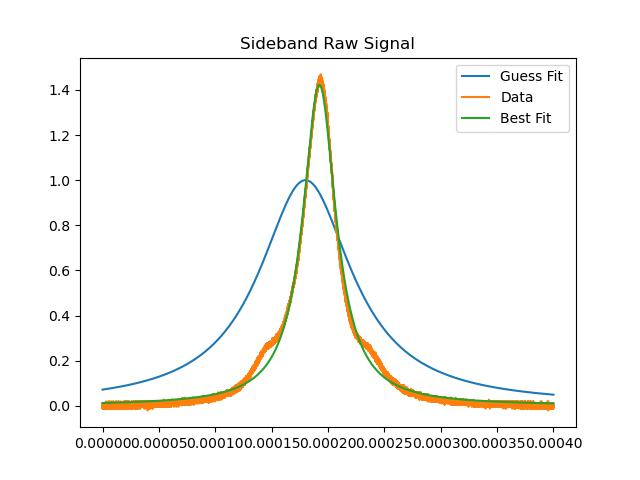
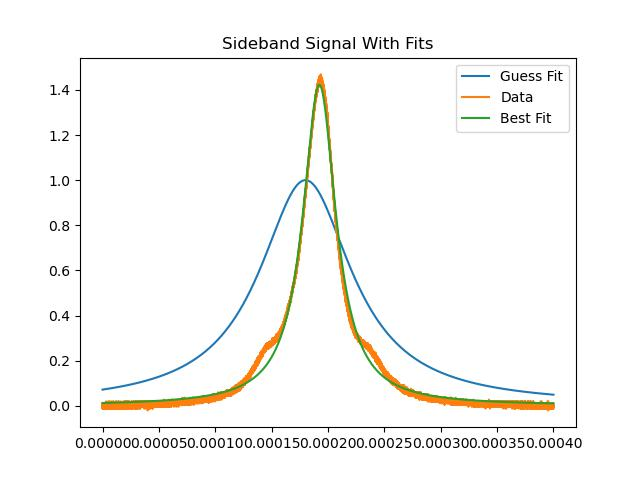
finished b

Changed region(s): [[0.3438, 0.0625, 0.6875, 0.125]]

diff --git a/Assignment 4/a4q1b.py b/Assignment 4/a4q1b.py
@@ -2,7 +2,7 @@ import numpy as np
 from scipy import integrate
 from matplotlib import pyplot as plt
 
-# We start by loading the data
+'''We start by loading the data'''
 
 stuff = np.load('mcmc/sidebands.npz')
 t = stuff['time']
@@ -10,7 +10,7 @@ d = stuff['signal']
 
 
 
-# We use Newton's method to find the best fit for the data
+'''We use Newton's method to find the best fit for the data'''
 
 # We define our fit function
 def lorentz_fit(p, t):
@@ -29,42 +29,59 @@ def lorentz_fit(p, t):
 
 
 
-times = np.arange(min(t), max(t), t[1]-t[0])
+
+
+'''We do the "Newton method" 10 times'''
+
+nb_iter = 10
 
 # Initial parameter guess
 p = np.array([1, 0.00018, 0.00005])
-
-# Show guess
 plt.plot(t, lorentz_fit(p, t)[0], label = "Guess Fit")
-plt.plot(t, d, label = "Data")
-plt.title("Sideband Raw Signal")
 
+# Loop for each step in Newton's method
+for j in range(nb_iter):
 
-
-# We do the procedure 5 times to try it out
-for j in range(5):
+    # Computing 1) Predicted points 2) Gradient
     pred, grad = lorentz_fit(p, t)
 
     # Residuals
     r = d - pred
 
-
+    # Useful matrices
     lhs = grad.T@grad
     rhs = grad.T@r 
 
+    # Computing the step
     dp = np.linalg.inv(lhs)@rhs
 
+    # Finding a closer parameter
     p = p + dp
 
-    print(p, dp)
 
+
+
+'''Error finding part'''
+
+# Finding the 1) predicted data 2) the grad of the function
+pred, grad = lorentz_fit(p, t)
+print("The parameters are:", p)
+
+# Finding the noise in our data
+err = np.mean(np.abs(pred - d))
+
+
+# Finding the error on the parameters
+lhs = grad.T@grad
+cov_mat = np.linalg.inv(lhs)*err
+p_err = np.sqrt(np.diagonal(cov_mat))
+
+print("And the error on them are:", p_err)
+
+plt.plot(t, d, label = "Data")
 plt.plot(t, lorentz_fit(p, t)[0], label = "Best Fit")
 plt.legend()
+plt.title("Sideband Signal With Fits")
 plt.savefig("figs/a4q1a_newton_method.jpg")
 plt.show()
 plt.clf()
-    
-
-
-
-
